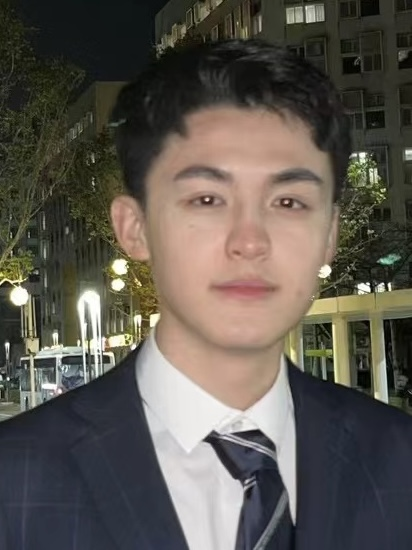
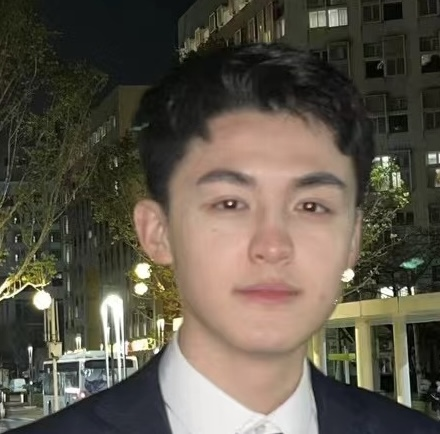
update

diff --git a/src/styles/global.css b/src/styles/global.css
@@ -14,7 +14,7 @@
   --color-border: #E7E5E4;
   --color-surface: #FFFFFF;
   --color-surface-hover: #FBF7F0;
-  --color-nav-bg: rgba(251, 247, 240, 0.85);
+  --color-nav-bg: rgba(227, 219, 206, 0.92);
   --color-shadow: rgba(28, 25, 23, 0.08);
 }
 
@@ -28,7 +28,7 @@
   --color-border: #292524;
   --color-surface: #1A1F1F;
   --color-surface-hover: #252B2B;
-  --color-nav-bg: rgba(14, 17, 17, 0.85);
+  --color-nav-bg: rgba(30, 37, 37, 0.90);
   --color-shadow: rgba(0, 0, 0, 0.35);
 }
 
